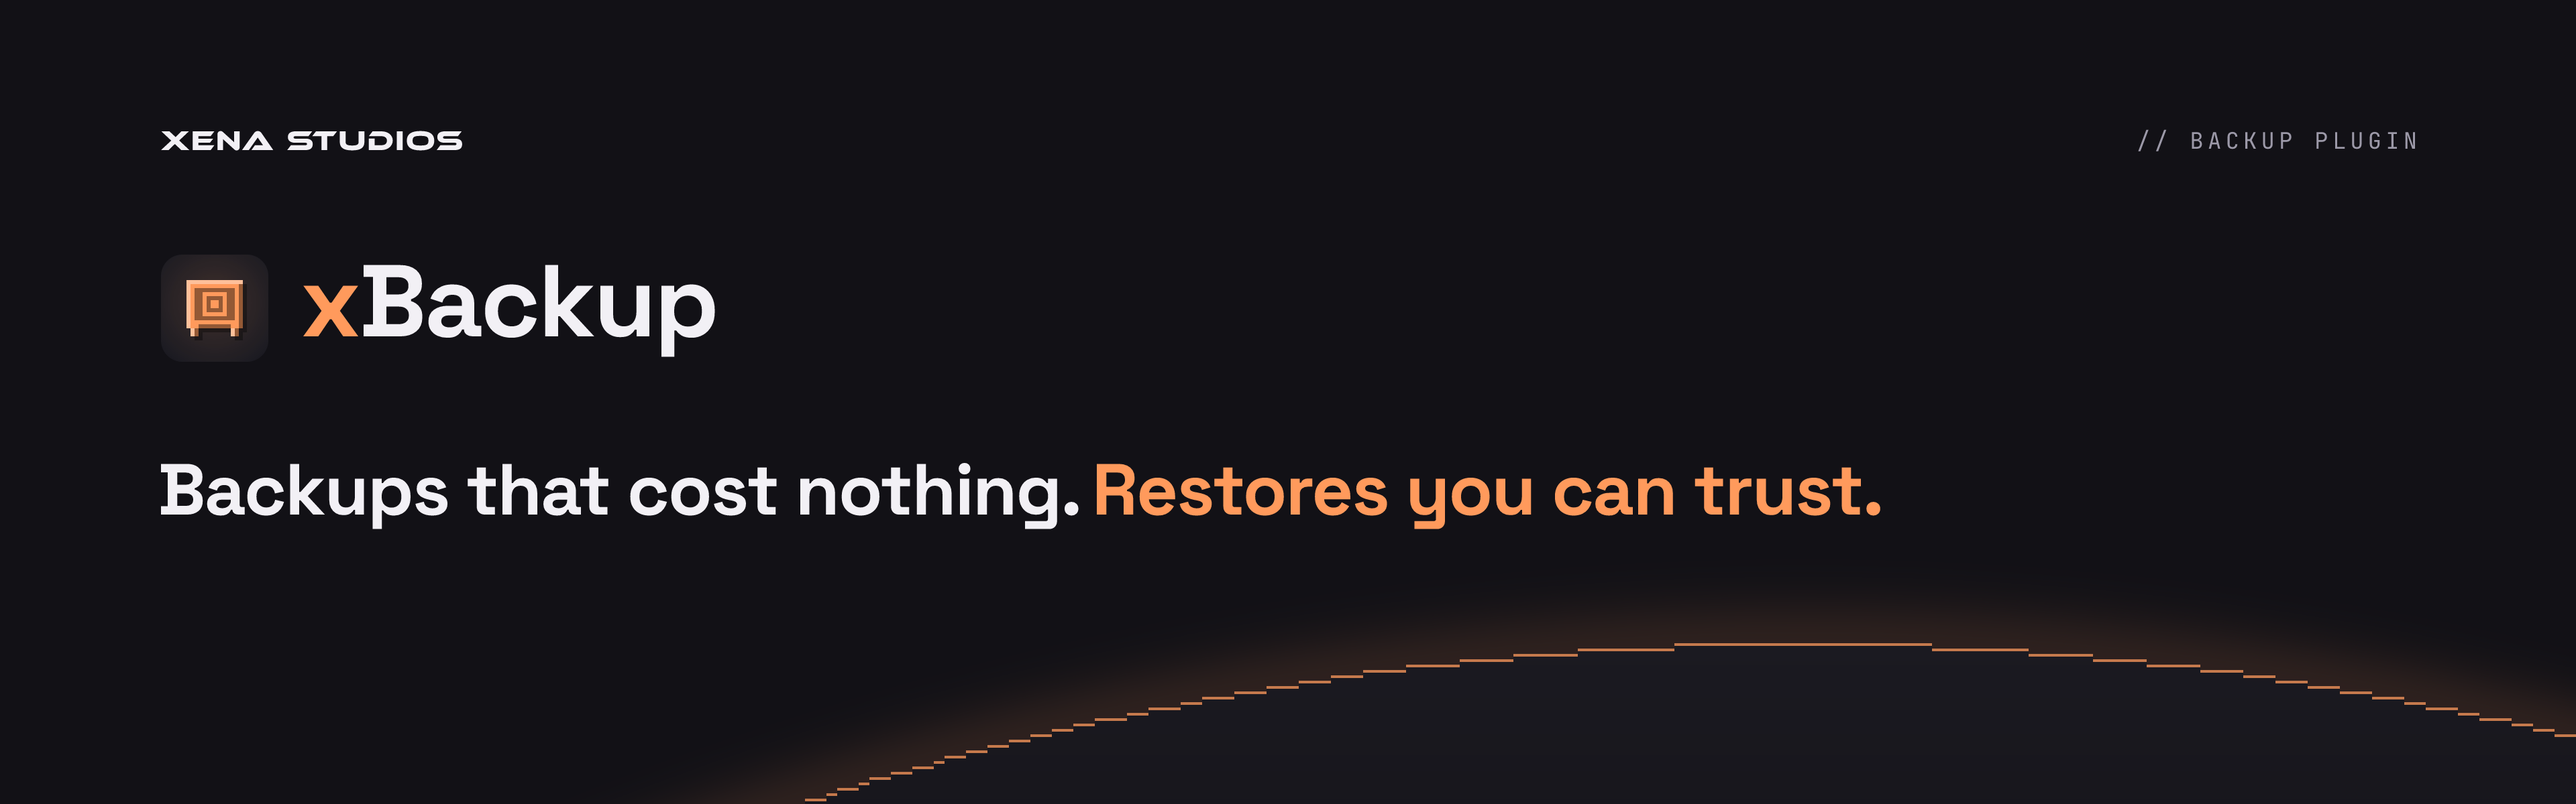
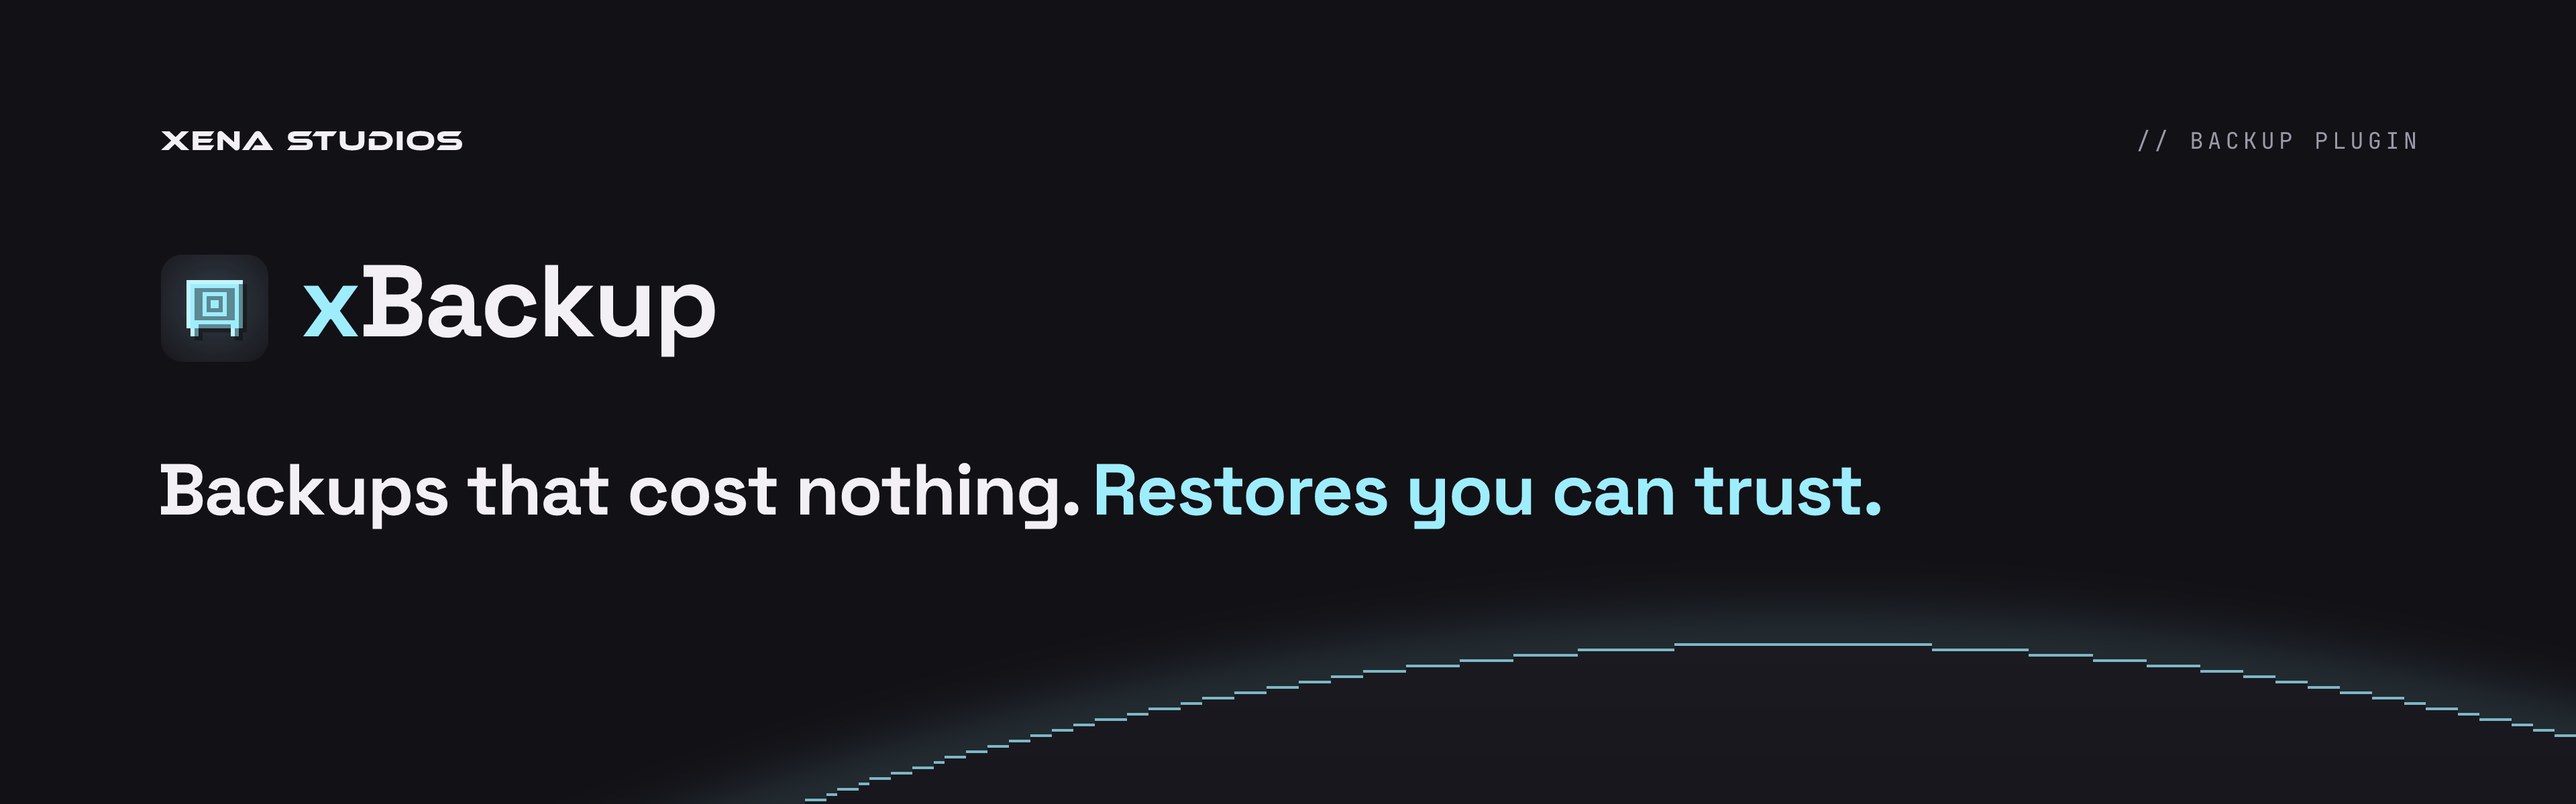
feat: new accents for the six new plugins
xTeleport fuchsia, xVote cobalt, xBans crimson, xMoney emerald, xStats green and
xBackup ice, from xena-studios/brand#16: icons, banners, docs accents, default
message colours and xStats' website. xBans' text uses a lighter crimson
(#F53A51), since the brand's #D70E3A is too dark to read as text.

diff --git a/docs/src/routeData.ts b/docs/src/routeData.ts
@@ -1,7 +1,7 @@
 // A plugin's pages wear its accent: amber for xUtilities, green for zChat,
 // violet for xLimbo, teal for xRewind, lime for xPlots,
-// orchid for xTeleport, periwinkle for xVote, tangerine for xBans, glacier blue for xMoney,
-// apricot for xBackup, rose for xStats (xena-studios/brand, scripts/plugin-brand.ts). The rest
+// fuchsia for xTeleport, cobalt for xVote, crimson for xBans, emerald for xMoney,
+// ice for xBackup, green for xStats (xena-studios/brand, scripts/plugin-brand.ts). The rest
 // of the site keeps the family's neutral accent from theme.css.
 import { defineRouteMiddleware } from "@astrojs/starlight/route-data";
 

diff --git a/docs/public/accents/xbans.css b/docs/public/accents/xbans.css
@@ -1,9 +1,11 @@
 /* xbans's accent (xena-studios/brand, scripts/plugin-brand.ts), loaded on its pages.
    Starlight puts route head entries before the bundled theme, so the doubled
    :root outranks theme.css instead of relying on order. */
+/* The brand's crimson (#D70E3A) is too dark for text here (3.6:1), so the site uses a
+   lighter crimson (5:1), as xBans' messages do. */
 :root:root {
-  --accent: #FF9447;
-  --sl-color-accent-low: #36291F;
-  --sl-color-accent: #FF9447;
-  --sl-color-accent-high: #FEC8A2;
+  --accent: #F53A51;
+  --sl-color-accent-low: #33101C;
+  --sl-color-accent: #F53A51;
+  --sl-color-accent-high: #EB869C;
 }

diff --git a/docs/public/accents/xbackup.css b/docs/public/accents/xbackup.css
@@ -2,8 +2,8 @@
    Starlight puts route head entries before the bundled theme, so the doubled
    :root outranks theme.css instead of relying on order. */
 :root:root {
-  --accent: #FF9A5C;
-  --sl-color-accent-low: #382721;
-  --sl-color-accent: #FF9A5C;
-  --sl-color-accent-high: #FFCDAD;
+  --accent: #9EEDFD;
+  --sl-color-accent-low: #2A363D;
+  --sl-color-accent: #9EEDFD;
+  --sl-color-accent-high: #CEF6FE;
 }

diff --git a/docs/public/accents/xmoney.css b/docs/public/accents/xmoney.css
@@ -2,8 +2,8 @@
    Starlight puts route head entries before the bundled theme, so the doubled
    :root outranks theme.css instead of relying on order. */
 :root:root {
-  --accent: #58D0E8;
-  --sl-color-accent-low: #1D3038;
-  --sl-color-accent: #58D0E8;
-  --sl-color-accent-high: #ACE8F4;
+  --accent: #10AC79;
+  --sl-color-accent-low: #122B27;
+  --sl-color-accent: #10AC79;
+  --sl-color-accent-high: #88D6BC;
 }

diff --git a/docs/public/accents/xstats.css b/docs/public/accents/xstats.css
@@ -2,8 +2,8 @@
    Starlight puts route head entries before the bundled theme, so the doubled
    :root outranks theme.css instead of relying on order. */
 :root:root {
-  --accent: #F77FA5;
-  --sl-color-accent-low: #34222B;
-  --sl-color-accent: #F77FA5;
-  --sl-color-accent-high: #FBBFD2;
+  --accent: #3EC407;
+  --sl-color-accent-low: #192F13;
+  --sl-color-accent: #3EC407;
+  --sl-color-accent-high: #9EE283;
 }

diff --git a/docs/public/accents/xteleport.css b/docs/public/accents/xteleport.css
@@ -2,8 +2,8 @@
    Starlight puts route head entries before the bundled theme, so the doubled
    :root outranks theme.css instead of relying on order. */
 :root:root {
-  --accent: #EA87E2;
-  --sl-color-accent-low: #352437;
-  --sl-color-accent: #EA87E2;
-  --sl-color-accent-high: #F4C1F0;
+  --accent: #CE41E3;
+  --sl-color-accent-low: #321939;
+  --sl-color-accent: #CE41E3;
+  --sl-color-accent-high: #E6A0F1;
 }

diff --git a/docs/public/accents/xvote.css b/docs/public/accents/xvote.css
@@ -2,8 +2,8 @@
    Starlight puts route head entries before the bundled theme, so the doubled
    :root outranks theme.css instead of relying on order. */
 :root:root {
-  --accent: #91ACFF;
-  --sl-color-accent-low: #262A3B;
-  --sl-color-accent: #91ACFF;
-  --sl-color-accent-high: #C8D6FF;
+  --accent: #4D7BFD;
+  --sl-color-accent-low: #1C233D;
+  --sl-color-accent: #4D7BFD;
+  --sl-color-accent-high: #A6BDFE;
 }

diff --git a/xstats/web/style.css b/xstats/web/style.css
@@ -1,6 +1,6 @@
 /* xStats' website. Colours come from the server's config (web.branding), set on :root by app.js. */
 :root {
-  --accent: #f77fa5;
+  --accent: #3ec407;
   --background: #0f1419;
   --surface: #1a222b;
   --text: #e6edf3;

diff --git a/xstats/src/main/java/co/xenastudios/xstats/config/XSConfig.java b/xstats/src/main/java/co/xenastudios/xstats/config/XSConfig.java
@@ -23,7 +23,7 @@ public record XSConfig(
     @Comment({
         "The look xStats' messages share. The default messages use these as tags, so changing",
         "a colour here restyles them all. Write a style as MiniMessage tags: <gray>,",
-        "<#F77FA5>, or <gold><bold>."})
+        "<#3EC407>, or <gold><bold>."})
     Theme theme,
     @Comment("What players are told.") Messages messages,
     @Comment("The commands players use. Blank permission means everyone may.") Commands commands,
@@ -259,9 +259,9 @@ public record XSConfig(
 
     public static final XSConfig DEFAULTS = new XSConfig(
         new Theme(
-            "<#F77FA5>»</#F77FA5> ",
+            "<#3EC407>»</#3EC407> ",
             TextStyle.parse("<gray>"),
-            TextStyle.parse("<#F77FA5>"),
+            TextStyle.parse("<#3EC407>"),
             TextStyle.parse("<#5EE08A>"),
             TextStyle.parse("<#FF6B6B>")),
         new Messages(
@@ -290,13 +290,13 @@ public record XSConfig(
         new Collecting(5, 4, true, true),
         new Leaderboards(100, true, 10,
             new Boards(10,
-                Message.of("<#F77FA5><bold><stat></bold></#F77FA5>\n<gray><period>"),
-                Message.of("<gray><rank>.</gray> <white><player></white> <#F77FA5><value>"),
+                Message.of("<#3EC407><bold><stat></bold></#3EC407>\n<gray><period>"),
+                Message.of("<gray><rank>.</gray> <white><player></white> <#3EC407><value>"),
                 Message.of("<gray>Nobody yet"))),
         new Periods("", DayOfWeek.MONDAY, 90, new PeriodNames("Today", "This week", "This month", "All time")),
         new Web(false, "0.0.0.0", 8804, "", true, List.of("*"), 120, 32, List.of(), "X-Forwarded-For",
             new Avatars("https://mc-heads.net/avatar/{uuid}/{size}", false),
-            new Branding("", "", "", Colour.of("#F77FA5"), Colour.of("#0F1419"), Colour.of("#1A222B"), Colour.of("#E6EDF3"))),
+            new Branding("", "", "", Colour.of("#3EC407"), Colour.of("#0F1419"), Colour.of("#1A222B"), Colour.of("#E6EDF3"))),
         "main",
         StorageSettings.defaults("xstats_"),
         NetworkSettings.DEFAULTS,

diff --git a/xbans/src/main/java/co/xenastudios/xbans/config/XBConfig.java b/xbans/src/main/java/co/xenastudios/xbans/config/XBConfig.java
@@ -24,7 +24,7 @@ public record XBConfig(
     @Comment({
         "The look xBans' messages share. The default messages use these as tags, so changing",
         "a colour here restyles them all. Write a style as MiniMessage tags: <gray>,",
-        "<#FF9447>, or <gold><bold>."})
+        "<#F53A51>, or <gold><bold>."})
     Theme theme,
     @Comment({
         "What punished players see. <reason>, <staff>, <id>, <expires> (a date), <time-left>,",
@@ -307,9 +307,9 @@ public record XBConfig(
 
     public static final XBConfig DEFAULTS = new XBConfig(
         new Theme(
-            "<#FF9447>»</#FF9447> ",
+            "<#F53A51>»</#F53A51> ",
             TextStyle.parse("<gray>"),
-            TextStyle.parse("<#FF9447>"),
+            TextStyle.parse("<#F53A51>"),
             TextStyle.parse("<#5EE08A>"),
             TextStyle.parse("<#FF6B6B>")),
         new Screens(
@@ -318,9 +318,9 @@ public record XBConfig(
                 + "\n<gray>Ends in <white><time-left></white> (<expires>)" + SCREEN_END),
             Message.of("<#FF6B6B><bold>Your IP is banned from this server.</bold>\n\n<gray>Reason: <white><reason>"
                 + "\n<gray>Ends: <white><expires>" + SCREEN_END),
-            Message.of("<#FF9447><bold>You were kicked.</bold>\n\n<gray>Reason: <white><reason>"),
+            Message.of("<#F53A51><bold>You were kicked.</bold>\n\n<gray>Reason: <white><reason>"),
             "https://example.com/appeal",
-            Message.of("<#FF9447>The server is still starting.</#FF9447>\n<gray>Try again in a few seconds."),
+            Message.of("<#F53A51>The server is still starting.</#F53A51>\n<gray>Try again in a few seconds."),
             Message.of("<prefix><error>You're muted:</error> <reason>"),
             Message.of("<prefix><error>You're muted</error> for <highlight><time-left></highlight>: <reason>"),
             Message.of("<prefix><error>You were muted</error> by <highlight><staff></highlight> <duration>: <reason>"),

diff --git a/xmoney/src/main/java/co/xenastudios/xmoney/config/XMConfig.java b/xmoney/src/main/java/co/xenastudios/xmoney/config/XMConfig.java
@@ -21,7 +21,7 @@ public record XMConfig(
     @Comment({
         "The look xMoney's messages share. The default messages use these as tags, so changing",
         "a colour here restyles them all. Write a style as MiniMessage tags: <gray>,",
-        "<#58D0E8>, or <gold><bold>."})
+        "<#10AC79>, or <gold><bold>."})
     Theme theme,
     @Comment("What players and staff are told.") Messages messages,
     @Comment({
@@ -199,9 +199,9 @@ public record XMConfig(
 
     public static final XMConfig DEFAULTS = new XMConfig(
         new Theme(
-            "<#58D0E8>»</#58D0E8> ",
+            "<#10AC79>»</#10AC79> ",
             TextStyle.parse("<gray>"),
-            TextStyle.parse("<#58D0E8>"),
+            TextStyle.parse("<#10AC79>"),
             TextStyle.parse("<#5EE08A>"),
             TextStyle.parse("<#FF6B6B>")),
         new Messages(

diff --git a/xteleport/src/main/java/co/xenastudios/xteleport/config/XTConfig.java b/xteleport/src/main/java/co/xenastudios/xteleport/config/XTConfig.java
@@ -26,7 +26,7 @@ public record XTConfig(
     @Comment({
         "The look xTeleport's messages share. The default messages use these as tags, so changing",
         "a colour here restyles them all. Write a style as MiniMessage tags: <gray>,",
-        "<#EA87E2>, or <gold><bold>."})
+        "<#CE41E3>, or <gold><bold>."})
     Theme theme,
     @Comment("What players are told.") Messages messages,
     @Comment({
@@ -248,7 +248,7 @@ public record XTConfig(
         Message alreadySearching,
         @Comment("<world> isn't one /rtp may send the player to.") Message worldNotAllowed) {}
 
-    private static final String ACCENT = "#EA87E2";
+    private static final String ACCENT = "#CE41E3";
 
     public static final XTConfig DEFAULTS = new XTConfig(
         new Theme(
